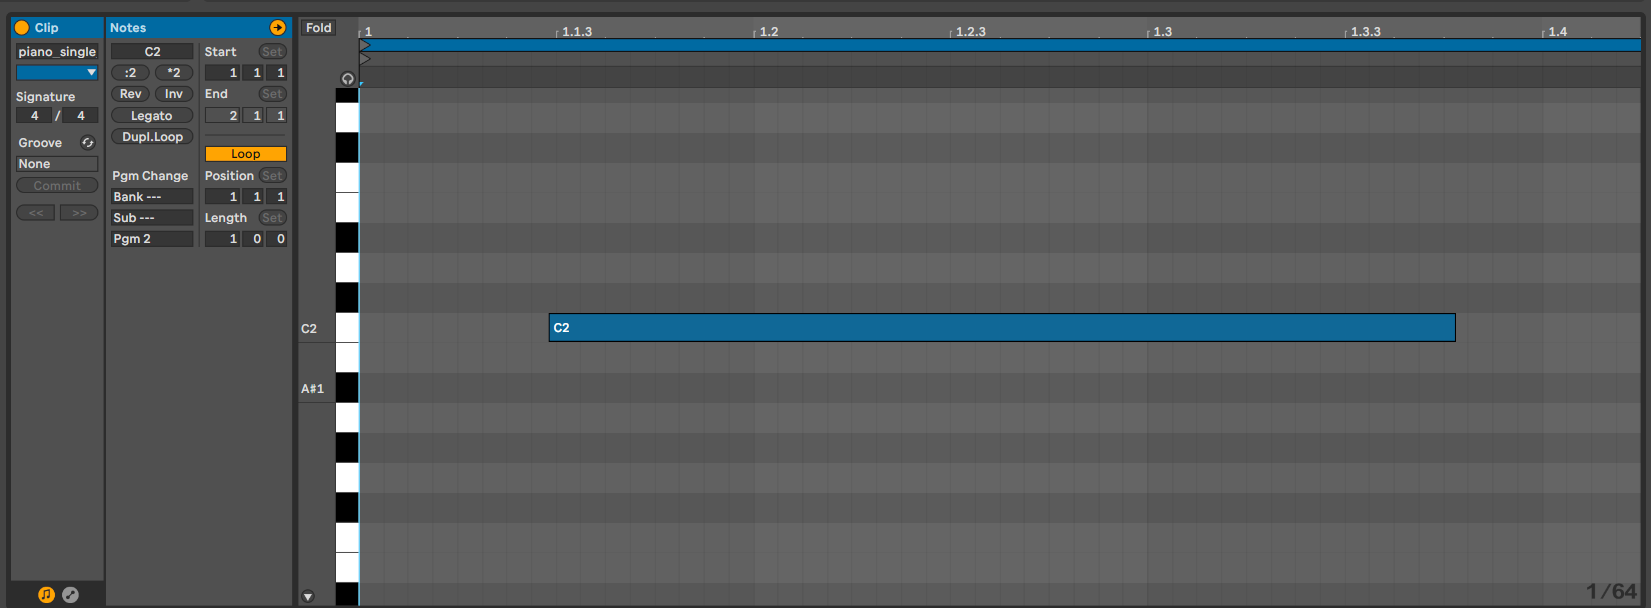
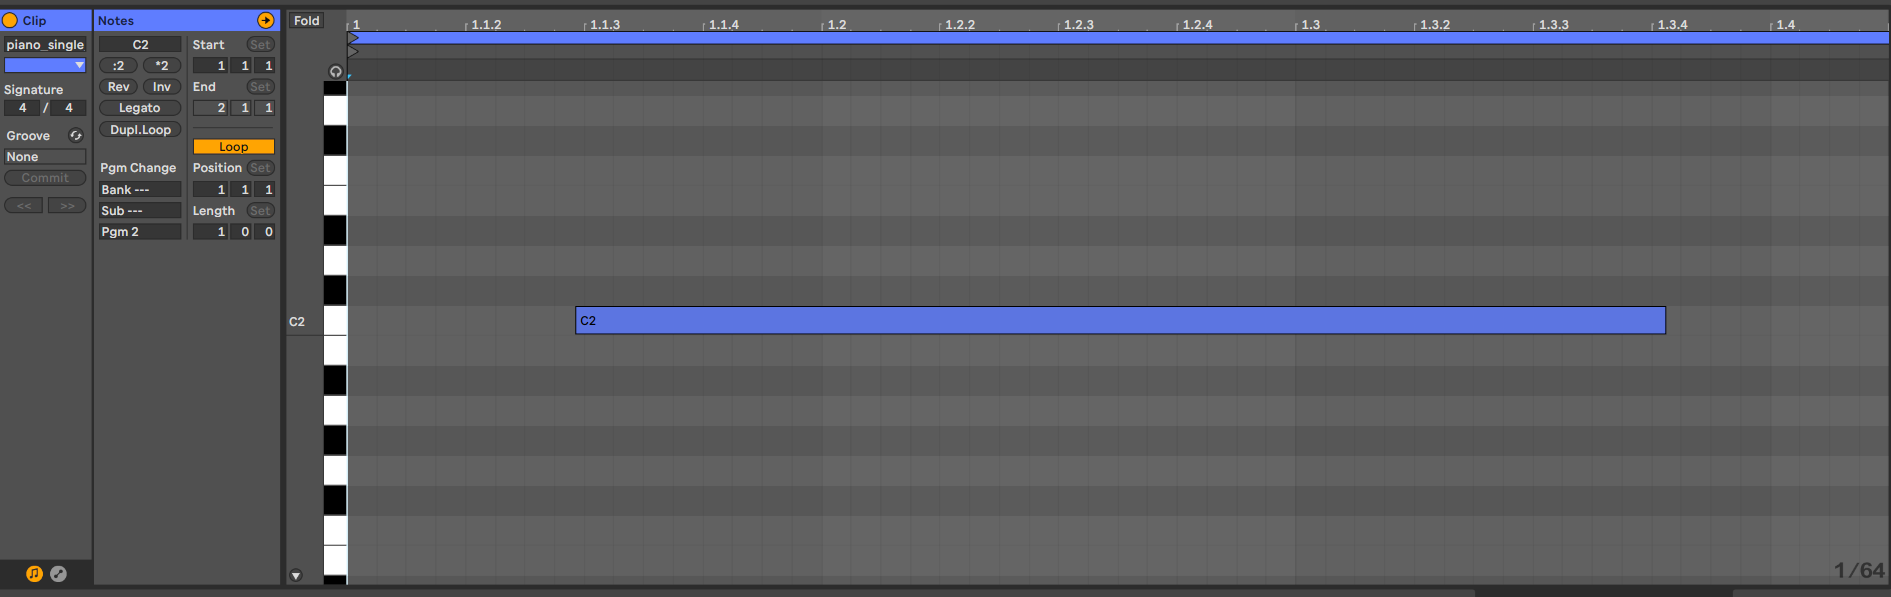
Added dynamic stylings for modals, removed open in new tab links on buttons

Changed region(s): [[0.0, 0.0, 1.0, 1.0], [0.278, 0.5126, 0.8958, 0.5729]]

diff --git a/public/modals.js b/public/modals.js
@@ -15,7 +15,7 @@ var project_details = { // Holds more detailed summary regarding projects.
     },
     'Poly NS Tuner': {
         'summary': 'The Poly NS Tuner library provides the ability to parse audio (.wav) files for polyphonic pitch information, scale detection, and pitch tracked MIDI file generation within Python.</br></br>The project utilizes Librosa, NumPy, and Fourier transforms for the DSP and pitch weighting algorithms as well as prettymidi for MIDI file generation. Python output provides a guess as to the scale of the provided wav file as well.</br></br>',
-        'media': ['images/sample_midi_guess_sidebyside.png', 'images/piano_chords_melody_Cm_vanilla_sample.png','images/piano_chords_melody_Cm_vanilla_midi_guess.png'],
+        'media': ['images/piano_chords_melody_Cm_vanilla_sample.png', 'images/piano_chords_melody_Cm_vanilla_midi_guess.png', 'images/piano_single_short_C2_vanilla_sample.png', 'images/piano_single_short_C2_vanilla_midi_guess.png'],
         'tech': ['images/logos/tech/python_icon.png', 'images/logos/tech/numpy_icon.png', 'images/logos/tech/librosa_icon.png', 'images/logos/tech/fourier.png'],
         'project_link':'https://github.com/andrew-d-gordon/Poly-NS-Tuner',
         'link_icon':'github'
@@ -28,8 +28,8 @@ var project_details = { // Holds more detailed summary regarding projects.
         'link_icon':'github'
     },
     'Line Find': {
-        'summary': 'This project serves as a library of code for finding lines that cross through a number of unique points from a set of input points. The generation of variably sized and randomized sets of input points is viable through the point_test_creator.py module. Driver code within find_lines.py utilizes it\'s own functions and other modules within src in order to achieve the discovery of lines through sets of points in O(n*n) time.</br></br>More information on available functions, objects, as well as the line finding algorithms can be found in the docs folder. The specific line finding algorithms are detailed within the finding_unique_lines() and finding_max_unique_point_lines() sections inside of docs/find_lines.md.</br></br>',
-        'media': ['images/linefind_test_output.png', 'images/linefind_test_output_strict.png'], //'images/linefind_test_output_strict.png'
+        'summary': 'This project serves as a library of code for finding lines that cross through a specified number of unique points from a set of 2D points. The generation of variably sized and random sets of input points is viable through the point_test_creator.py module. Driver code within find_lines.py utilizes it\'s own functions and other modules within src in order to achieve the discovery of lines in O(n*n) time.</br></br>Two definitions of uniqueness are present from the first to second image, the functions to achieve each are finding_unique_lines() and finding_max_unique_point_lines() respectively. The number of points threshold can be set as well, e.g. the third and fourth image are run on the same sets of points but utilize a point threshold of 3 and 4 respectively. More information on available functions, objects, as well as the line finding algorithms can be found in the docs folder.</br></br>',
+        'media': ['images/linefind_test_output.png', 'images/linefind_test_output_strict.png', 'images/unique_set_test_1000_random_1000_graph.png', 'images/unique_set_test_1000_random_1000_4_thresh_graph.png'], //'images/linefind_test_output_strict.png'
         'tech': ['images/logos/tech/python_icon.png', 'images/logos/tech/dfs_icon.png', 'images/logos/tech/unittest_icon.png', 'images/logos/tech/matplot.png'],
         'project_link':'https://github.com/andrew-d-gordon/Line-Find',
         'link_icon':'github'
@@ -48,9 +48,14 @@ var project_details = { // Holds more detailed summary regarding projects.
 function addTileContent(project) {
     // Modal Related Divs
     const modal_title = document.querySelector('.modal-title');
-    const modal_images = document.querySelector('.modal-content-images');
     const modal_text = document.querySelector('.modal-content-text');
     const modal_tech = document.querySelector('.modal-content-tech');
+    console.log(project, `media length: ${project_details[project]['media'].length}`);
+    let single_img = project_details[project]['media'].length == 1;
+    
+    const modal_images = single_img ? // If using single image, utilize single image div
+    document.querySelector('.modal-content-images-solo') :
+    document.querySelector('.modal-content-images');
 
     modal_title.innerHTML = project+'</br>'+
         `<a href=${project_details[project]['project_link']} target="_blank" rel="noopener noreferrer"><span style="color: Black;"><i class="fa fa-${project_details[project]['link_icon']}"></i></span></a>`; // Add project title
@@ -92,6 +97,7 @@ function addTileModals() {
     const modal = document.querySelector(".modal");
     const modalCloseButton = document.querySelector(".modal-close");
     const modal_images = document.querySelector('.modal-content-images');
+    const modal_images_solo = document.querySelector('.modal-content-images-solo');
     const modal_tech = document.querySelector('.modal-content-tech');
     
     /* Portfolio Tile Modal button logic */
@@ -121,6 +127,7 @@ function addTileModals() {
                 modal.classList.remove("modal-show", "modal-hide");
                 document.body.style.overflow = "initial";
                 modal_images.innerHTML = null; // Reset modal images
+                modal_images_solo.innerHTML = null;
                 modal_tech.innerHTML = null; // Reset tech logos
             }, 200);
         } else {

diff --git a/public/about.html b/public/about.html
@@ -30,8 +30,8 @@
             </div>
             
             <div class="right-side">
-                <a href="https://www.linkedin.com/in/andrew7gordon/" target="_blank" rel="noopener noreferrer"><i class="fa fa-linkedin"></i></a>
-                <a href="https://github.com/andrew-d-gordon/" target="_blank" rel="noopener noreferrer"><i class="fa fa-github"></i></a>
+                <a href="https://www.linkedin.com/in/andrew7gordon/"><i class="fa fa-linkedin"></i></a>
+                <a href="https://github.com/andrew-d-gordon/"><i class="fa fa-github"></i></a>
                 <div class="brand">
                     <div>ANDREW GORDON</div>
                 </div>
@@ -60,8 +60,8 @@
                         </p>
                         <p>
                             <b>Other:</b></br>
-                            <a href="https://www.linkedin.com/in/andrew7gordon/" target="_blank" rel="noopener noreferrer"><i class="fa fa-linkedin"></i></a>
-                            <a href="https://github.com/andrew-d-gordon/" target="_blank" rel="noopener noreferrer"><i class="fa fa-github"></i></a>
+                            <a href="https://www.linkedin.com/in/andrew7gordon/"><i class="fa fa-linkedin"></i></a>
+                            <a href="https://github.com/andrew-d-gordon/"><i class="fa fa-github"></i></a>
                         </p>
                     </div>
                 </div>

diff --git a/public/index.html b/public/index.html
@@ -31,8 +31,8 @@
             </div>
             
             <div class="right-side">
-                <a href="https://www.linkedin.com/in/andrew7gordon/" target="_blank" rel="noopener noreferrer"><i class="fa fa-linkedin"></i></a>
-                <a href="https://github.com/andrew-d-gordon/" target="_blank" rel="noopener noreferrer"><i class="fa fa-github"></i></a>
+                <a href="https://www.linkedin.com/in/andrew7gordon/"><i class="fa fa-linkedin"></i></a>
+                <a href="https://github.com/andrew-d-gordon/"><i class="fa fa-github"></i></a>
                 <div class="brand">
                     <div>ANDREW GORDON</div>
                 </div>
@@ -49,6 +49,10 @@
                 <span class="modal-close">&times;</span>
                 <h1 class="modal-title"></h1>
                 <div class="modal-content-images">
+                    <!--<img src="images/delish_food_finder.png">
+                    <img src="images/delish_food_finder2.png">-->
+                </div>
+                <div class="modal-content-images-solo">
                     <!--<img src="images/delish_food_finder.png">
                     <img src="images/delish_food_finder2.png">-->
                 </div>

diff --git a/public/styles.css b/public/styles.css
@@ -353,7 +353,7 @@ embed {
 .modal-content {
     position: relative;
     background-color: white;
-    width: 60%;
+    width: 75%;
     max-height: 80%;
     margin: 2rem;
     padding: 2rem;
@@ -387,7 +387,7 @@ embed {
 
 .modal-content-images {
     display: grid;
-    grid-template-columns: 1fr;
+    grid-template-columns: 1fr 1fr;
     max-width: 100%;
     justify-items: center;
     align-items: center;
@@ -396,6 +396,25 @@ embed {
     margin-bottom: 1rem;
 }
 .modal-content-images img {
+    max-width: 95%;
+    max-height: 95%;
+    line-height: 1.5rem;
+    border-radius: .25rem;
+    position: relative;
+    box-shadow: 0 4px 15px rgba(0,0,0,0.4);
+}
+
+.modal-content-images-solo {
+    display: grid;
+    grid-template-columns: 1fr;
+    max-width: 100%;
+    justify-items: center;
+    align-items: center;
+    line-height: 1.5rem;
+    position: relative;
+    margin-bottom: 1rem;
+}
+.modal-content-images-solo img {
     max-width: 95%;
     max-height: 95%;
     line-height: 1.5rem;
@@ -421,6 +440,7 @@ embed {
     display: inline-block;
 }
 .tech-logos img {
+    min-width: 30px;
     width: 24%;
 }
 

diff --git a/public/index.js b/public/index.js
@@ -82,7 +82,7 @@ function generateProjectTiles() {
         project_d = [project_d['subtitle'], project_d['tech'], project_d['project_link'], project_d['link_icon']]; // Tuple to hold project vals
         portfolio_tile_subtitle.innerHTML = project_d[0]+'</br></br><u>Tech:</u> '+
                                             project_d[1].join(', ')+'</br></br>'+
-                                            `<a href=${project_d[2]} target="_blank" rel="noopener noreferrer"><i class="fa fa-${project_d[3]}"></i></a>`;
+                                            `<a href=${project_d[2]}><i class="fa fa-${project_d[3]}"></i></a>`;
         portfolio_tile_content.appendChild(portfolio_tile_subtitle);
         
         portfolio_tile.appendChild(portfolio_tile_content);

diff --git a/public/resume.html b/public/resume.html
@@ -29,8 +29,8 @@
             </div>
 
             <div class="right-side">
-                <a href="https://www.linkedin.com/in/andrew7gordon/" target="_blank" rel="noopener noreferrer"><i class="fa fa-linkedin"></i></a>
-                <a href="https://github.com/andrew-d-gordon/" target="_blank" rel="noopener noreferrer"><i class="fa fa-github"></i></a>
+                <a href="https://www.linkedin.com/in/andrew7gordon/"><i class="fa fa-linkedin"></i></a>
+                <a href="https://github.com/andrew-d-gordon/"><i class="fa fa-github"></i></a>
                 <div class="brand">
                     <div>ANDREW GORDON</div>
                 </div>
